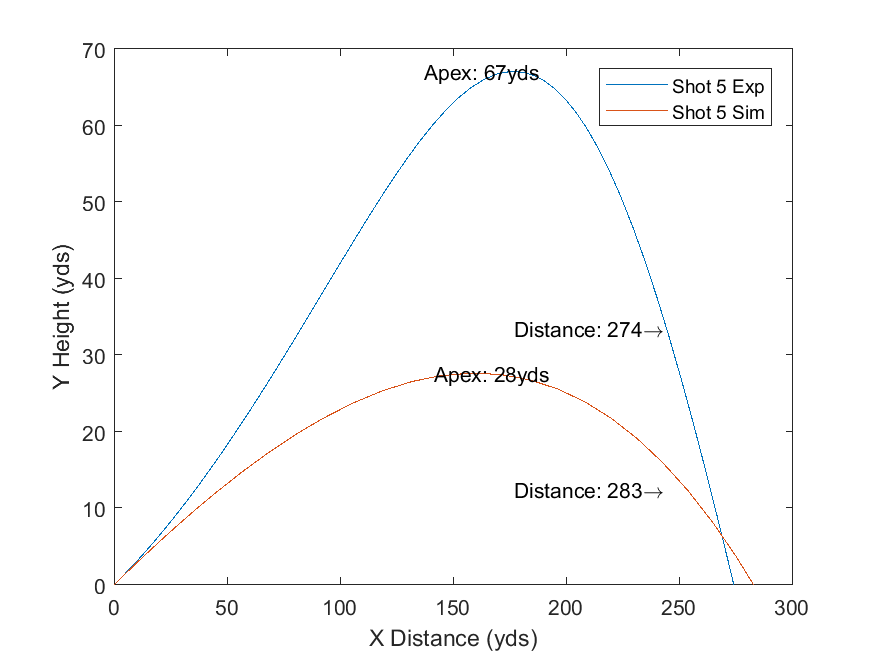
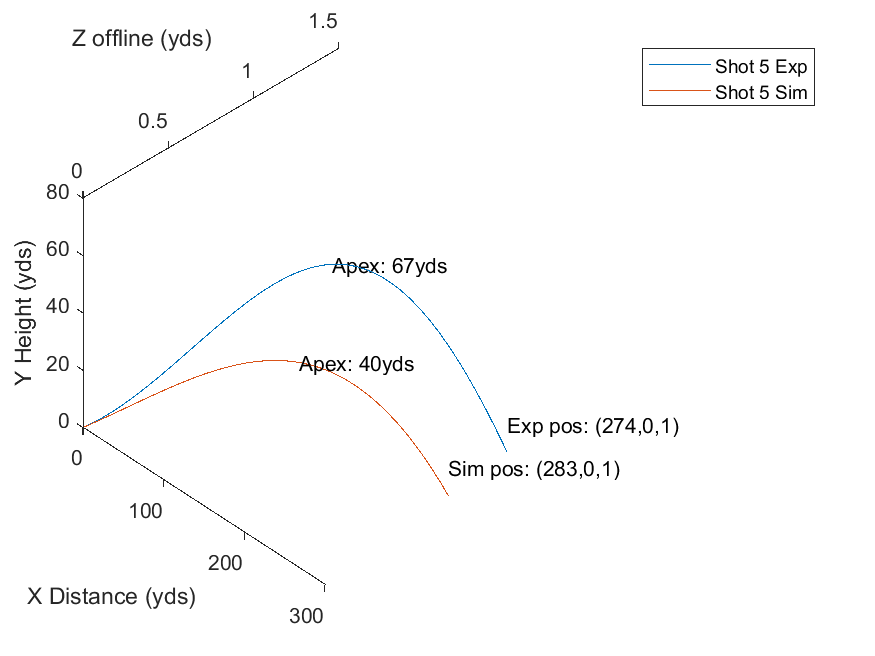
Fixed cost function to account for off line distance and plot in 3D

diff --git a/Lab1/lab1.m b/Lab1/lab1.m
@@ -33,8 +33,8 @@ for shotID = 1:size(lab1data, 1)
     [x, final,t] = simBallTrajectory([v0, azim, backspin, angle, side_spin, rho_in], aero_coeffs);
     dispName = strcat('Shot ', int2str(shotID)); 
     plot3(x(1:final,4)/3,x(1:final,5)/3,x(1:final,6)/3, 'DisplayName', dispName);
-    carry(shotID) = x(final,4)/3;
-    apexes(shotID) = max(x(1:final,5)/3); 
+    carry = x(final,4)/3;
+    apexY = max(x(1:final,5)/3); 
     legend('-DynamicLegend');
     hold on
 end
@@ -101,39 +101,41 @@ for shotID = 1:size(lab1data, 1)
     %Experimental Trajectory
     [x, final,t] = simBallTrajectory([v0, azim, backspin, angle, side_spin, rho_in], aero_coeffs);
     dispName = ['Shot ', int2str(shotID), ' Exp']; %strcat('Shot ', int2str(shotID), 'sim'); 
-    plot(x(1:final,4)/3,x(1:final,5)/3, 'DisplayName', dispName);
-    carry(shotID) = x(final,4)/3;
-    apexes(shotID) = max(x(1:final,5)/3); 
-    txt = ['Apex: ', int2str(apexes(shotID)), 'yds']; 
-    %txt = {'Plotted Data:','y = sin(x)'};
-    text(carry(shotID)/2,apexes(shotID),txt)
-    txt = [ 'Distance: ', int2str(carry(shotID)), '\rightarrow'];
-    text(carry(shotID)/1.55, apexes(shotID)/2,txt); 
+    plot3(x(1:final,4)/3,x(1:final,5)/3,x(1:final,6)/3,  'DisplayName', dispName);
+    carry = x(final,4)/3;
+    [apexY, apexI] = max(x(1:final,5)/3); 
+    txt = ['Apex: ', int2str(apexY), 'yds']; 
+    text(x(apexI,4)/3,apexY, x(apexI, 6)/3,txt)
+    txt = ['Exp pos: (', int2str(carry), ',0,', int2str(x(final,6)/3), ')'];
+    text(carry,10,x(final,6)/3,txt); 
     hold on
     
     %Simulated Trajectory
     [x, final,t] = simBallTrajectory([v0, azim, backspin, angle, side_spin, rho_in], optimalCoeffs);
     dispName = ['Shot ', int2str(shotID), ' Sim']; 
-    plot(x(1:final,4)/3,x(1:final,5)/3, 'DisplayName', dispName);
-    carry(shotID) = x(final,4)/3;
-    apexes(shotID) = max(x(1:final,5)/3); 
-    txt = ['Apex: ', int2str(apexes(shotID)), 'yds']; 
-    %txt = {'Plotted Data:','y = sin(x)'};
-    text(carry(shotID)/2,apexes(shotID),txt)
-    txt = [ 'Distance: ', int2str(carry(shotID)), '\rightarrow'];
-    text(carry(shotID)/1.6, apexes(shotID)/2.2,txt); 
+    plot3(x(1:final,4)/3,x(1:final,5)/3,x(1:final,6)/3, 'DisplayName', dispName);
+    carry = x(final,4)/3;
+    [apexY, apexI] = max(x(1:final,5)/3); 
+    txt = ['Apex: ', int2str(apexY), 'yds']; 
+    text(x(apexI,4)/3,apexY, x(apexI, 6)/3,txt)
+    txt = ['Sim pos: (', int2str(carry), ',0,', int2str(x(final,6)/3), ')'];
+    text(carry,10,x(final,6)/3,txt); 
+    hold on 
     legend('show');
     xlabel('X Distance (yds)'); 
     ylabel('Y Height (yds)');
-    
+    zlabel('Z offline (yds)');
+   
+    view(3)
+    camup([0 1 0])  
     saveas(gcf, ['part3_sim_exp_', int2str(shotID),'.png']); 
 end
 %% Part 4 - Optimization between backspin and launch angle
 
 lBounds = [1000, 0]; 
 uBounds = [4000, 45]; 
-initConds = [4000, 22]; 
-options = optimoptions('fmincon', 'Display', 'iter','Algorithm', 'sqp'); 
+initConds = [2500, 22]; %options = optimoptions('fmincon','Display','iter','Algorithm','sqp');
+options = optimoptions('fmincon','Display','iter', 'Algorithm','sqp', 'OptimalityTolerance', 1e-12); 
 nonlcon = @unitdisk; 
-[optimalLaunchConds, distance] = fmincon(@optimizeLaunch, initConds,[],[],[],[],lBounds, uBounds)
+[optimalLaunchConds, distance] = fmincon(@optimizeLaunch, initConds,[],[],[],[],lBounds, uBounds, [], options)
 %[backspin, launchAngle]

diff --git a/Lab1/optimizeLaunch.m b/Lab1/optimizeLaunch.m
@@ -19,7 +19,7 @@ function distance = optimizeLaunch(launchConds)
     if distance == 0
         distance = 999999; 
     else
-        distance = 1/distance;
+        distance = -distance;
     end
     
 end

diff --git a/Lab1/simBallTrajectory.m b/Lab1/simBallTrajectory.m
@@ -9,7 +9,8 @@ side = launch_params(5);
 
 if length(launch_params) > 5
     rho = launch_params(6);
-    else rho = 0.0023769; 
+else
+    rho = 0.0023769;
 end
 
 PI = 3.1415926535;
